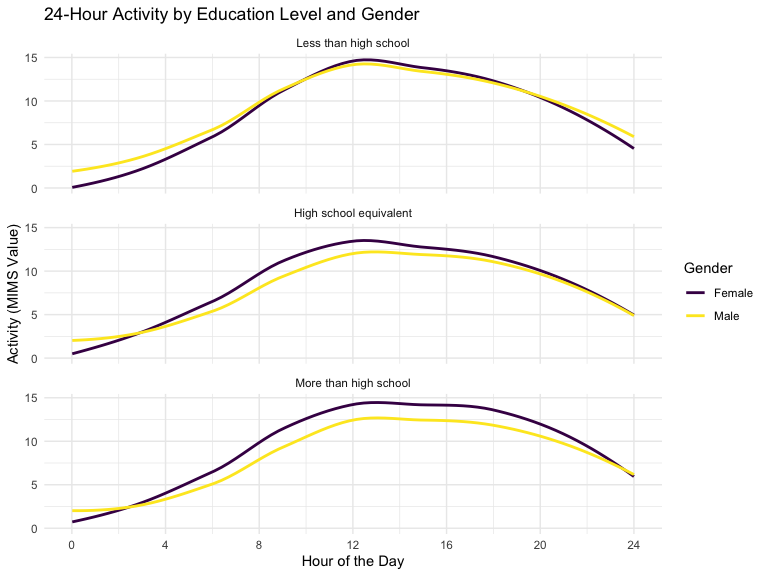
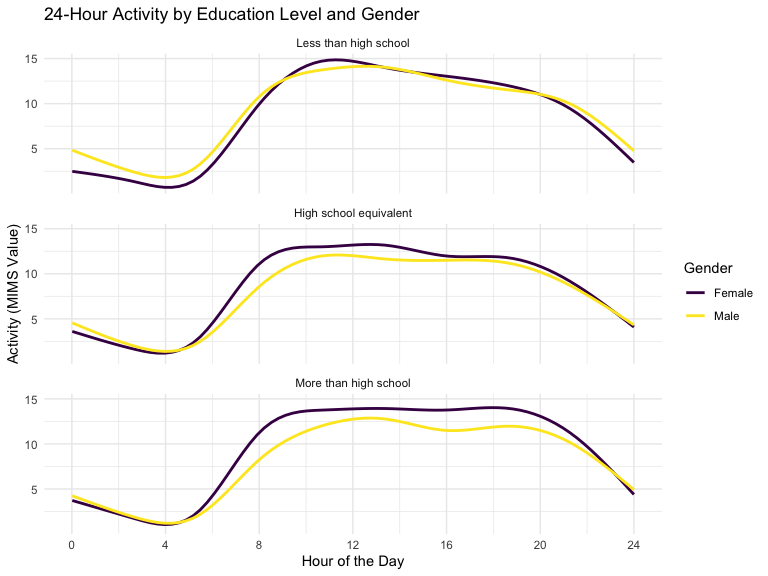
Solution for Problem 3 and final grammar check

diff --git a/p8105_hw3_cyl2159.md b/p8105_hw3_cyl2159.md
@@ -71,7 +71,7 @@ ny_noaa_clean |>
   theme(legend.position = "none")
 ```
 
-<img src="p8105_hw3_cyl2159_files/figure-gfm/unnamed-chunk-2-1.png" width="90%" />
+<img src="p8105_hw3_cyl2159_files/figure-gfm/unnamed-chunk-2-1.png" width="95%" />
 
 Above is a two-panel plot showing average monthly max temperature in
 January and in July for all the stations. Even though the mean month
@@ -102,7 +102,7 @@ ridge_plot <- ny_noaa_clean |>
 hex_plot + ridge_plot
 ```
 
-<img src="p8105_hw3_cyl2159_files/figure-gfm/unnamed-chunk-3-1.png" width="90%" />
+<img src="p8105_hw3_cyl2159_files/figure-gfm/unnamed-chunk-3-1.png" width="95%" />
 
 We made a two-panel plot to show `tmax` vs `tmin` overall using hex plot
 (left) and per year snowfall distribution (right).For the hex plot,
@@ -155,8 +155,8 @@ filtered_mims_df <- complete_mims_df |>
 Using the code above, we first import the individual demographics and
 accelerometer data separately. In both the datasets, we cleaned the
 column names. For `accelerometer_df`, because a single variable (minute
-count) is spread out in multiple columns with MIMS value as their value.
-So, we tidied the data using `pivot_longer` to combined all the minute
+count) is spread out in multiple columns with MIMS value as their value,
+we tidied the data using `pivot_longer` to combined all the minute
 counts as `minute_count` and values under `mims_value` columns. We
 combined the two datasets by the corresponding index: `seqn` using
 `inner_join`. We tried removing all the rows with missing demographic
@@ -167,30 +167,31 @@ data (sex, age and education). For the nominal categorical variables,
 filtered_mims_df |> 
   group_by(sex, education) |> 
   summarize(number_of_minute_reads = n(), 
-            mean_bmi = mean(bmi, na.rm = TRUE), 
-            mean_mims = mean(mims_value, na.rm = TRUE)) |> 
+            mean_bmi = round(mean(bmi, na.rm = TRUE),digits = 2),  
+            mean_mims = round(mean(mims_value, na.rm = TRUE),digits = 2)) |> 
   knitr::kable()
 ```
 
 | sex    | education              | number_of_minute_reads | mean_bmi | mean_mims |
 |:-------|:-----------------------|-----------------------:|---------:|----------:|
-| Female | Less than high school  |                  41760 | 31.17857 |  8.834386 |
-| Female | High school equivalent |                  33120 | 31.71304 |  8.721839 |
-| Female | More than high school  |                  84960 | 28.75085 |  9.592266 |
-| Male   | Less than high school  |                  40320 | 28.30370 |  9.232080 |
-| Male   | High school equivalent |                  51840 | 29.04571 |  8.035692 |
-| Male   | More than high school  |                  80640 | 29.01786 |  8.362123 |
+| Female | Less than high school  |                  41760 |    31.18 |      8.83 |
+| Female | High school equivalent |                  33120 |    31.71 |      8.72 |
+| Female | More than high school  |                  84960 |    28.75 |      9.59 |
+| Male   | Less than high school  |                  40320 |    28.30 |      9.23 |
+| Male   | High school equivalent |                  51840 |    29.05 |      8.04 |
+| Male   | More than high school  |                  80640 |    29.02 |      8.36 |
 
 As seen in the table above, there are above thirty-three thousands
-per-minute reads for MIMS (Monitor-Independent Movement Summary) value,
-with the highest counts for people with more than high school education
-among both male and female participants. Looking at the MIMS value
-themselves, women with more than high school education had the greatest
-average movement, followed by men with less than high school education.
-However, women with less than high school education had the least amount
-of movement during the day. Looking at the summary value, MIMS value and
-BMI seem to be correlated. Within each gender, participants with the
-highest movement had the lowest average BMI.
+per-minute reads for MIMS (Monitor-Independent Movement Summary) value
+for both men and women in each education category. Male and female
+participants with more than high school education represent the most
+amount of reads. Looking at the MIMS value themselves, women with more
+than high school education had the greatest average movement, followed
+by men with less than high school education. However, women with less
+than high school education had the least amount of movement during the
+day. Looking at the summary value, MIMS value and BMI seem to be
+correlated. Within each gender, participants with the highest movement
+had the lowest average BMI.
 
 ``` r
 filtered_mims_df |> 
@@ -204,7 +205,7 @@ filtered_mims_df |>
   theme_minimal()
 ```
 
-<img src="p8105_hw3_cyl2159_files/figure-gfm/unnamed-chunk-6-1.png" width="90%" />
+<img src="p8105_hw3_cyl2159_files/figure-gfm/unnamed-chunk-6-1.png" width="95%" />
 
 As seen the density plot above, distribution of men and women differs in
 each education category. Participants with less than high school
@@ -212,9 +213,9 @@ education in men are mostly in their 40s and in women are more in their
 late 80s. Overall, in this category, there are more older women. Younger
 men (in their earlier 20s) and older women (in their late 70s) represent
 the higher proportion of participants with high school education.
-Similarly, participants with more than high school education consists of
-are mostly in their early 20s the most, and late 20s/early 30s in women
-and men respectively.
+Similarly, participants with more than high school education are in
+their early 20s the most, and late 20s/early 30s in women and men
+respectively.
 
 ``` r
 total_activity <- filtered_mims_df |>
@@ -232,21 +233,20 @@ total_activity  |>
        color = "Gender")
 ```
 
-    ## `geom_smooth()` using formula = 'y ~ x'
-
-<img src="p8105_hw3_cyl2159_files/figure-gfm/unnamed-chunk-7-1.png" width="90%" />
+<img src="p8105_hw3_cyl2159_files/figure-gfm/unnamed-chunk-7-1.png" width="95%" />
 
 Using our tidied dataset, we aggregated MIMS value across all the
 minutes for each participant to create `perday_activity` that has total
 activity for the participant. Looking at the total per day activity of
 the participants in the plot above, we can see that men with high school
-education and above have lower activity in general. In participants with
-less than high school education, women under 50 years were more active
-while after 50 years, men were more active. Total activity level
-decreased with age, and more drastically after 60 years for participants
-with either less or more than high school education. Overall, the total
-activity for people with higher education level had lower activity
-level. It could be due to more sedentary occupations they tend to take.
+education and above have lower activity in general than their female
+counterparts of the same age. In participants with less than high school
+education, women under 50 years were more active while after 50 years,
+men were more active. Total activity level decreased with age, and more
+drastically after 60 years in participants with either less or more than
+high school education. Overall, people with higher education level had
+lower activity level. It could because they tend to end up in more
+sedentary occupations.
 
 ``` r
 minute_activity <- filtered_mims_df |>
@@ -257,7 +257,7 @@ minute_activity <- filtered_mims_df |>
 minute_activity |>
   ggplot(aes(x = minute_count, y = mims_value, color = sex)) +
   #geom_line(aes(group = participant_id), alpha = 0.2) +  
-  geom_smooth(method = "loess", se = FALSE, linewidth = 1) +  
+  geom_smooth(method = "gam", se = FALSE, linewidth = 1) +  
   facet_wrap(~education, ncol = 1) +  
   labs(title = "24-Hour Activity by Education Level and Gender",
        x = "Hour of the Day",
@@ -267,12 +267,175 @@ minute_activity |>
   theme_minimal()
 ```
 
-    ## `geom_smooth()` using formula = 'y ~ x'
-
-<img src="p8105_hw3_cyl2159_files/figure-gfm/unnamed-chunk-8-1.png" width="90%" />
+<img src="p8105_hw3_cyl2159_files/figure-gfm/unnamed-chunk-8-1.png" width="95%" />
 
 Although the changes in activity per participant is hard to follow
 through, with smooth trends, we can see that activity level of people in
-all three education categories at the mid-day. Women with at least high
-school education in general have higher activity level than their male
-counterparts during the day.
+all three education categories peak at around mid-day. Women with at
+least high school education in general have higher activity level than
+their male counterparts during the day.
+
+## Problem 3
+
+#### Import the datasets:
+
+``` r
+cite_bike_files <- list.files("data/citibike")
+names_df <- c("2020-Jan", "2024-Jan", "2020-July", "2024-July")
+
+per_month_citibik_df <- lapply(1:4, function(index){
+  print(names_df[index])
+  df <- read_csv(paste0("data/citibike/", cite_bike_files[index])) |> 
+    mutate(time = names_df[index], 
+           rideable_type = as.factor(rideable_type), 
+           weekdays = factor(weekdays, levels = c("Monday", "Tuesday", "Wednesday", "Thursday", 
+                                                  "Friday", "Saturday", "Sunday")), 
+           member_casual = as.factor(member_casual)) |> 
+    separate(time, into = c("year", "month"), sep = "-") |> 
+    mutate(year = as.integer(year))
+  return(df)
+})
+```
+
+    ## [1] "2020-Jan"
+
+    ## [1] "2024-Jan"
+
+    ## [1] "2020-July"
+
+    ## [1] "2024-July"
+
+``` r
+names(per_month_citibik_df) <- names_df
+```
+
+The datasets imported above contain 1% of all rides with a total
+duration less than 4 hours in each of the four months (January and July
+of 2020 and 2024). After importing and adding `month` and `year`values,
+each of the datasets have 9 columns indicating ride id, bike type, day
+of the week, duration of ride (in minutes), start and end station name,
+member status, month and year. Among them the columns `rideable_type`,
+`weekdays` and `member_casual` have categorical variables with countable
+groups, so we converted them to `factor` variables. We have a total of
+12420, 18861, 21048 and 47156 rows for January 2020, January 2020, July
+2020 and July 2024 respectively.
+
+#### Combine the datasets:
+
+``` r
+combined_citike_df <- bind_rows(per_month_citibik_df)
+```
+
+#### Create a reader-friendly table:
+
+``` r
+combined_citike_df |> 
+  group_by(member_casual, year, month) |> 
+  summarise(total_rides = n(), 
+            total_duration_in_hr = round(sum(duration)/60, digits = 2), 
+            average_duration_in_min = round(mean(duration), digits = 2)) |> 
+  arrange(year, month, member_casual) |> 
+  relocate(year, month, member_casual) |> 
+  rename(member_status = member_casual) |> 
+  knitr::kable()
+```
+
+| year | month | member_status | total_rides | total_duration_in_hr | average_duration_in_min |
+|---:|:---|:---|---:|---:|---:|
+| 2020 | Jan | casual | 984 | 356.69 | 21.75 |
+| 2020 | Jan | member | 11436 | 2115.52 | 11.10 |
+| 2020 | July | casual | 5637 | 2406.34 | 25.61 |
+| 2020 | July | member | 15411 | 4258.02 | 16.58 |
+| 2024 | Jan | casual | 2108 | 522.39 | 14.87 |
+| 2024 | Jan | member | 16753 | 2842.46 | 10.18 |
+| 2024 | July | casual | 10894 | 3552.60 | 19.57 |
+| 2024 | July | member | 36262 | 7043.32 | 11.65 |
+
+In total, for each of the four different month and year combinations.
+Citi Bike members had higher total number of bike rides compared to
+casual riders. We can see that both the number of casual and member
+rides (and the total ride duration) have increased in 2024 when compared
+to the same months in 2020. However, on average casual bike members use
+the bike for longer period of time than members. This could be because
+the member bike riders likely use them for regular commute whereas
+casual riders use it recreationally.
+
+``` r
+popular_stations <- combined_citike_df |> 
+  filter(year == 2024, month == "July") |>
+  group_by(start_station_name) |> 
+  summarise(total_rides = n()) |> 
+  arrange(desc(total_rides)) |>
+  slice(1:5) 
+
+popular_stations |> 
+  knitr::kable()
+```
+
+| start_station_name       | total_rides |
+|:-------------------------|------------:|
+| Pier 61 at Chelsea Piers |         163 |
+| University Pl & E 14 St  |         155 |
+| W 21 St & 6 Ave          |         152 |
+| West St & Chambers St    |         150 |
+| W 31 St & 7 Ave          |         146 |
+
+``` r
+station_names <- pull(popular_stations, start_station_name)
+most_rides <- pull(popular_stations, total_rides)[1]
+```
+
+The most popular starting station in July 2024 is Pier 61 at Chelsea
+Piers with 163 rides. The next 4 stations are University Pl & E 14 St, W
+21 St & 6 Ave, West St & Chambers St and W 31 St & 7 Ave with all more
+than 140 rides each.
+
+``` r
+combined_citike_df  |>
+  group_by(year, month, weekdays) |>
+  summarise(median_duration = median(duration, na.rm = TRUE)) |>
+  ggplot(aes(x = weekdays, y = median_duration, fill = month)) +
+  geom_bar(stat = "identity", position = position_dodge()) +
+  facet_wrap(~year, ncol = 1) +
+  labs(title = "Median Ride Duration by Day of the Week, Month, and Year",
+       x = "Day of the Week",
+       y = "Median Duration (in minutes)",
+       fill = "Month") 
+```
+
+<img src="p8105_hw3_cyl2159_files/figure-gfm/unnamed-chunk-13-1.png" width="95%" />
+
+Rides are higher in July in each of the weekdays in both 2020 and 2024
+which could be due to having a weather more conducive for biking.
+Similarly, median rides each day has decreased in 2024 (mostly between 5
+and 10) compared to 2020 (above 10 rides in July). A trend that is
+similar in the summer month (July) between the two years are that there
+were higher numbers of riders on Saturday and Sunday of rides than
+during the weekdays. This could be attributed to better weather and more
+people riding recreationally. Even though a similar trend was seen in
+2020 January, it is not necessary true in 2024.
+
+``` r
+combined_citike_df |>
+  filter(year == 2024) |>
+  ggplot(aes(x = duration, y = member_casual, fill = member_casual)) +
+  geom_boxplot(alpha = 0.3) +
+  facet_wrap(~ month + rideable_type) +
+  labs(title = "Distribution of Ride Duration by Membership Status, Month and Bike Type",
+       x = "Ride Duration (in minutes)",
+       y = "Ride Count",
+       fill = "Membership Status") 
+```
+
+<img src="p8105_hw3_cyl2159_files/figure-gfm/unnamed-chunk-14-1.png" width="95%" />
+
+For 2024, at least 75% of the each ride types ended within 30 minutes of
+the ride. Citi Bike members had lower ride duration in both electric and
+classic bike. This is true for the months of both January and July.
+Classic bikes are ridden for longer duration than electric bikes. One of
+the possible reason could be that electric bikes in city bikes are twice
+as expensive. Although classic bike ride duration remained similar in
+January and July, the electric bike ride duration (especially for casual
+riders) have increased in July from January. Could this again be linked
+with the weather and how much more people are willing to pay to engage
+in outdoor activity during the summer?
